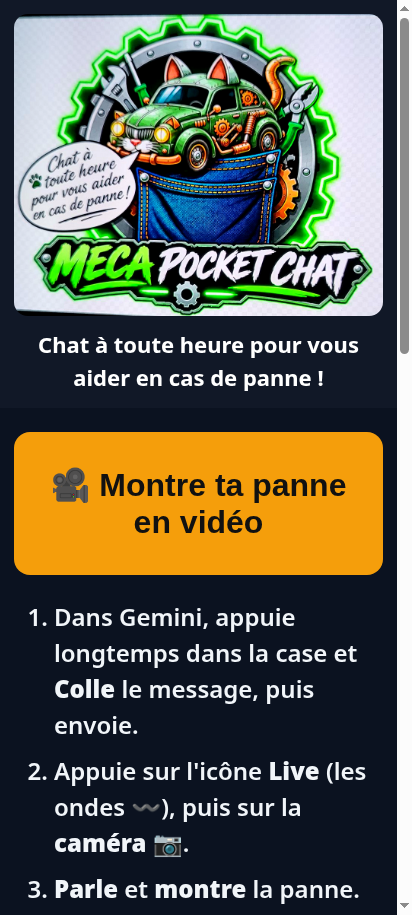
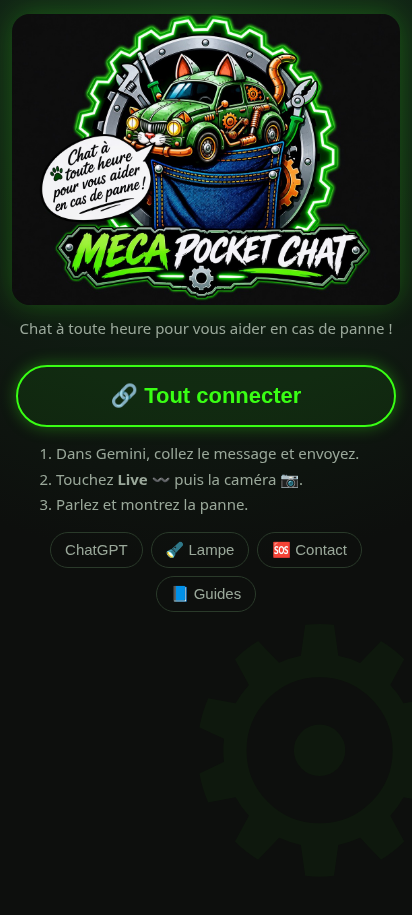
Mains libres: commandes vocales

diff --git a/app.js b/app.js
@@ -16,26 +16,41 @@ const PROMPT="Tu es Meca Pocket Chat, l'assistant mécanicien automobile de Stat
 const GEM_LINK='';// lien du Gem à mettre ici
 function fullPrompt(){const d=(document.getElementById('d')||{}).value;return PROMPT+(d||'Je vais te la montrer avec la caméra et t\'expliquer à voix haute. Commence par me demander de te montrer la panne.')}
 async function copy(){try{await navigator.clipboard.writeText(fullPrompt());return true}catch(e){return false}}
-let LS=null;
-async function connect(){const b=document.getElementById('cx');b.textContent='⏳ Connexion…';
-try{LS=await navigator.mediaDevices.getUserMedia({video:{facingMode:'environment'},audio:true});const p=document.getElementById('prev');p.srcObject=LS;p.style.display='block';
-const t=LS.getVideoTracks()[0];let dark=NUIT;
-if(!dark){await new Promise(r=>setTimeout(r,800));const c=document.createElement('canvas');c.width=32;c.height=32;const x=c.getContext('2d');x.drawImage(p,0,0,32,32);const d=x.getImageData(0,0,32,32).data;let s=0;for(let i=0;i<d.length;i+=4)s+=d[i]+d[i+1]+d[i+2];dark=s/(d.length/4*3)<50}
-if(dark){try{await t.applyConstraints({advanced:[{torch:true}]})}catch(e){}}
-b.textContent='✅ Connecté – parlez, je note';micro()}catch(e){b.textContent='🔗 Tout connecter';alert('Autorisez la caméra et le micro dans le navigateur.')}
-document.getElementById('send').style.display='block'}
-async function video(){await copy();if(LS)LS.getTracks().forEach(t=>t.stop());document.getElementById('st').style.display='block';setTimeout(()=>{location.href=GEM_LINK||'https://gemini.google.com/app'},1200)}
-async function gpt(){await copy();location.href='https://chatgpt.com/?q='+encodeURIComponent(fullPrompt())}
-function micro(){const R=window.SpeechRecognition||window.webkitSpeechRecognition;const d=document.getElementById('d');d.style.display='block';if(!R){d.placeholder='Écrivez votre panne ici';return}
-const r=new R();r.lang='fr-FR';r.interimResults=true;r.continuous=true;d.placeholder='🎤 Décrivez votre panne à voix haute…';
-r.onresult=ev=>{d.value=[...ev.results].map(x=>x[0].transcript).join(' ')};try{r.start()}catch(e){}}
-function home(){m.innerHTML=`<button class="main" id="cx" onclick="connect()">🔗 Tout connecter</button>
+let LS=null,REC=null,TRK=null,ON=true,DIC='';
+function say(t){try{const u=new SpeechSynthesisUtterance(t);u.lang='fr-FR';speechSynthesis.cancel();speechSynthesis.speak(u)}catch(e){}}
+function ind(t){const i=document.getElementById('mic');if(i)i.textContent=t}
+async function lamp(on){try{await TRK.applyConstraints({advanced:[{torch:on}]})}catch(e){if(on){const b=document.getElementById('blanc');b.style.display='flex'}else document.getElementById('blanc').style.display='none'}}
+async function connect(){document.getElementById('tap').style.display='none';
+try{LS=await navigator.mediaDevices.getUserMedia({video:{facingMode:'environment'},audio:true});const p=document.getElementById('prev');p.srcObject=LS;p.style.display='block';TRK=LS.getVideoTracks()[0];
+let dark=NUIT;if(!dark){await new Promise(r=>setTimeout(r,800));const c=document.createElement('canvas');c.width=32;c.height=32;const x=c.getContext('2d');x.drawImage(p,0,0,32,32);const d=x.getImageData(0,0,32,32).data;let s=0;for(let i=0;i<d.length;i+=4)s+=d[i]+d[i+1]+d[i+2];dark=s/(d.length/4*3)<50}
+if(dark)lamp(true);listen();say('Bonjour, je suis Meca Pocket Chat. Décrivez votre panne. Dites envoie à l\'IA quand vous avez fini.')}
+catch(e){document.getElementById('tap').style.display='flex'}}
+function cmd(t){t=t.toLowerCase();
+if(/éteins|eteins|éteindre/.test(t)){lamp(false);say('Lampe éteinte');return 1}
+if(/lumière|lumiere|allume|lampe/.test(t)){lamp(true);say('Lampe allumée');return 1}
+if(/(envoie|envoyer|demande).*(ia|i\.a|intelligence)|gemini/.test(t)){say('J\'envoie à Gemini');setTimeout(video,1200);return 1}
+if(/chat ?gpt/.test(t)){say('J\'ouvre ChatGPT');setTimeout(gpt,1200);return 1}
+if(/ferme/.test(t)){bye();return 1}
+if(/aide|appelle/.test(t)){aide();say('Voici comment obtenir de l\'aide');return 1}return 0}
+function listen(){const R=window.SpeechRecognition||window.webkitSpeechRecognition;if(!R){ind('🎤 micro indisponible');return}
+REC=new R();REC.lang='fr-FR';REC.continuous=true;REC.interimResults=false;
+REC.onresult=ev=>{const t=ev.results[ev.results.length-1][0].transcript.trim();if(!cmd(t)){DIC+=(DIC?' ':'')+t;const d=document.getElementById('d');if(d){d.style.display='block';d.value=DIC}}};
+REC.onstart=()=>ind('🟢 🎤 J\'écoute');REC.onend=()=>{ind('⚪ 🎤');if(ON)setTimeout(()=>{try{REC.start()}catch(e){}},300)};try{REC.start()}catch(e){}}
+function stopAll(){ON=false;try{REC&&REC.stop()}catch(e){}try{lamp(false)}catch(e){}LS&&LS.getTracks().forEach(t=>t.stop());LS=null}
+function bye(){say('Au revoir, bonne route !');stopAll();m.innerHTML='<h2 style="text-align:center">👋 Au revoir, bonne route !</h2>';setTimeout(()=>{try{window.close()}catch(e){}},1500)}
+function fullPrompt(){return PROMPT+(DIC||'Je vais te la montrer avec la caméra et t\'expliquer à voix haute. Commence par me demander de te montrer la panne.')}
+async function video(){await copy();stopAll();document.getElementById('st').style.display='block';setTimeout(()=>{location.href=GEM_LINK||'https://gemini.google.com/app'},1200)}
+async function gpt(){await copy();stopAll();location.href='https://chatgpt.com/?q='+encodeURIComponent(fullPrompt())}
+function home(){m.innerHTML=`<div id="mic" class="help" style="text-align:center">⚪ 🎤</div>
 <video id="prev" playsinline autoplay muted></video>
-<textarea id="d" rows="3" style="display:none;margin-top:10px"></textarea>
-<button class="main" id="send" style="display:none" onclick="video()">🤖 Envoyer à l'IA</button>
+<textarea id="d" rows="3" style="display:none;margin-top:10px" oninput="DIC=this.value"></textarea>
 <div id="st" class="help" style="display:none;color:var(--g)">✅ Message copié ! Gemini s'ouvre…</div>
+<p class="help" style="text-align:center">Dites : « lumière » · « éteins la lampe » · « envoie à l'IA » · « ChatGPT » · « aide » · « ferme l'appli »</p>
 <ol class="help"><li>Dans Gemini, collez le message et envoyez.</li><li>Touchez <b>Live</b> 〰 puis la caméra 📷.</li><li>Parlez et montrez la panne.</li></ol>
-<div class="links"><button onclick="gpt()">ChatGPT</button><button onclick="torch()">🔦 Lampe</button><button onclick="aide()">🆘 Contact</button><button onclick="guides()">📘 Guides</button></div>`}
+<div class="links"><button onclick="video()">🤖 Envoyer à l'IA</button><button onclick="aide()">🆘</button><button onclick="guides()">📘</button></div>
+<div id="tap" onclick="connect()" style="position:fixed;inset:0;display:none;align-items:center;justify-content:center;background:rgba(13,15,13,.85);color:var(--g);font-size:28px;font-weight:700;text-align:center;z-index:8;text-shadow:0 0 12px #39ff14">👆 Touche l'écran une fois<br>pour tout démarrer</div>`;
+setTimeout(async()=>{let ok=false;try{const q=await Promise.all(['camera','microphone'].map(n=>navigator.permissions.query({name:n})));ok=q.every(x=>x.state==='granted')}catch(e){}
+if(ok)connect();else document.getElementById('tap').style.display='flex'},300)}
 function guides(){m.innerHTML=`<button class="big" onclick="home()">⬅ Retour</button><h2>Guides</h2><input id="q" placeholder="🔍 Chercher (roue, batterie…)" oninput="list(this.value)"><div id="l"></div>`;list('')}
 function list(q){q=q.toLowerCase().normalize('NFD').replace(/[\u0300-\u036f]/g,'');document.getElementById('l').innerHTML=G.map((g,i)=>[g,i]).filter(([g])=>(g.t+g.s.join(' ')).toLowerCase().normalize('NFD').replace(/[\u0300-\u036f]/g,'').includes(q)).map(([g,i])=>`<button class="big" onclick="guide(${i})">${g.t}</button>`).join('')||'<p>Rien trouvé.</p>'}
 function guide(i){const g=G[i];m.innerHTML=`<button class="big g" onclick="home()">⬅ Retour</button><h2>${g.t}</h2><div class="warn">${g.w}</div><ol>${g.s.map(x=>`<li>${x}</li>`).join('')}</ol><button class="big" onclick="aide()">🆘 Besoin d'aide ?</button>`;scrollTo(0,0)}

diff --git a/sw.js b/sw.js
@@ -1,4 +1,4 @@
-const C='dep-v5',F=['./','index.html','app.js','manifest.json','icon-192.png','icon-512.png','logo.jpg'];
+const C='dep-v6',F=['./','index.html','app.js','manifest.json','icon-192.png','icon-512.png','logo.jpg'];
 self.addEventListener('install',e=>{e.waitUntil(caches.open(C).then(c=>c.addAll(F)));self.skipWaiting()});
 self.addEventListener('activate',e=>{e.waitUntil(caches.keys().then(k=>Promise.all(k.filter(x=>x!==C).map(x=>caches.delete(x)))));self.clients.claim()});
 self.addEventListener('fetch',e=>{e.respondWith(caches.match(e.request).then(r=>r||fetch(e.request)))});

diff --git a/index.html b/index.html
@@ -26,4 +26,4 @@ ol li{margin:8px 0}h2{font-size:22px;color:var(--g)}
 <main id="m"></main>
 <div id="cam"><video id="v" playsinline autoplay muted></video><div class="bar"><button class="big" id="snap">📸 Photo</button><button class="big" id="lt">🔦 Lumière</button><button class="big g" id="cc">✖ Fermer</button></div></div>
 <div id="blanc" onclick="this.style.display='none'">Touchez l'écran pour éteindre</div>
-<script src="app.js?v=5"></script></body></html>
+<script src="app.js?v=6"></script></body></html>
